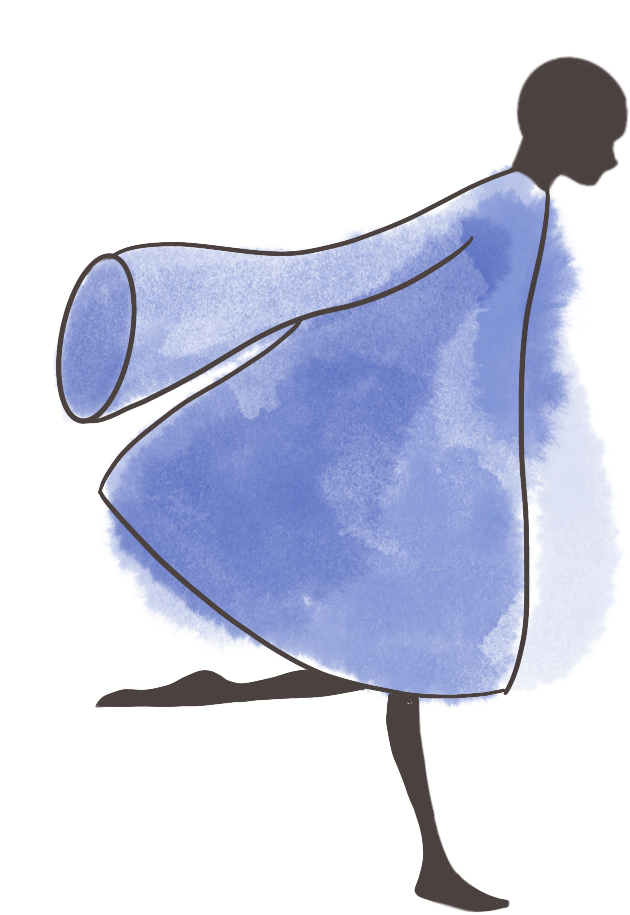
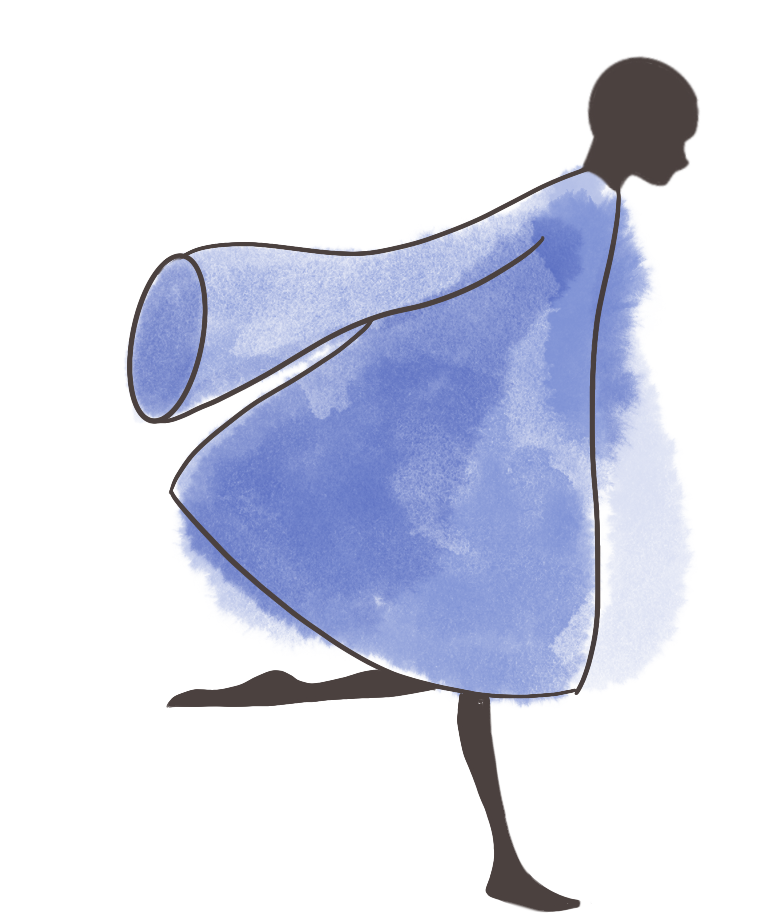
refonte sprite et fin

diff --git a/src/scenes/PreloaderScene.js b/src/scenes/PreloaderScene.js
@@ -1,0 +1,109 @@
+import Phaser from 'phaser'
+import GuernicaScene from "./GuernicaScene";
+
+// import importRessources from '../helpers/ressources'
+// import ressourcesJson from '../config/ressources'
+
+export default class PreloaderScene extends Phaser.Scene{
+
+    init(data){
+        this.data = data;
+    }
+    constructor() {
+        super({key: 'preloader'});
+    }
+
+    preload () {
+        this.screenCenterX = this.game.canvas.width / 2
+        this.screenCenterY = this.game.canvas.height / 2
+
+        // this.logo = this.add.sprite(this.screenCenterX, this.screenCenterY, "logo_animated");
+        //
+        // this.anims.create({
+        //     key: 'fly',
+        //     frames: this.anims.generateFrameNumbers('logo_animated', { start: 0, end: 3 }),
+        //     frameRate: 10,
+        //     repeat: -1
+        // });
+        //
+        // this.logo.anims.play('fly', true)
+
+        this.progressBar = this.add.graphics()
+        this.progressBox = this.add.graphics()
+        this.progressBox.fillStyle(0x000000, 0.8)
+        this.progressBox.fillRect(this.screenCenterX - 160, this.screenCenterY + 100, 304, 34)
+
+        this.percentText = this.make.text({
+            x: this.screenCenterX,
+            y: this.screenCenterY + 120,
+            text: '0%',
+            style: {
+                font: '18px monospace',
+                fill: '#ffffff'
+            }
+        }).setOrigin(.5,.5)
+
+        this.assetText = this.make.text({
+            x: this.screenCenterX,
+            y: this.screenCenterY + 70,
+            text: '',
+            style: {
+                font: '18px monospace',
+                fill: '#000000'
+            }
+        }).setOrigin(0.5, 0.5);
+
+        this.load.on('progress', (value) => {
+            this.percentText.setText(parseInt(value * 100) + '%')
+            this.progressBar.clear()
+            this.progressBar.fillStyle(0xffffff, 1)
+            this.progressBar.fillRect(this.screenCenterX - 158, this.screenCenterY + 102, 300 * value, 30)
+        })
+
+        this.load.on('fileprogress', (file) => {
+            console.log('Loading asset: ' + file.key)
+            this.assetText.setText('Loading asset: ' + file.key)
+        })
+
+        this.load.on('complete', () => {
+            this.progressBar.destroy()
+            this.progressBox.destroy()
+            this.percentText.destroy()
+            this.assetText.destroy()
+            this.complete(this.data.name)
+        });
+
+        //Charge Scene and ressource
+        switch (this.data.name) {
+            case "guernica":
+                this.scene.add("guernica", GuernicaScene, false);
+                this.load.image('guernicabg', 'assets/images/Levels/GUERNICA/guernica.PNG');
+                this.load.image('guernicabg2', 'assets/images/Levels/GUERNICA/guernica2.PNG');
+
+                this.load.image('guernica1', 'assets/images/Levels/GUERNICA/l enfant.PNG');
+                this.load.image('guernica2', 'assets/images/Levels/GUERNICA/la colombe.PNG');
+                this.load.image('guernica3', 'assets/images/Levels/GUERNICA/la fleur.PNG');
+                this.load.image('guernica4', 'assets/images/Levels/GUERNICA/la jambe boiteuse.PNG');
+                this.load.image('guernica5', 'assets/images/Levels/GUERNICA/la lampe.PNG');
+                this.load.image('guernica6', 'assets/images/Levels/GUERNICA/le cheval.PNG');
+                this.load.image('guernica7', 'assets/images/Levels/GUERNICA/le cri.PNG');
+                this.load.image('guernica8', 'assets/images/Levels/GUERNICA/le fantome.PNG');
+                this.load.image('guernica9', 'assets/images/Levels/GUERNICA/le poignard.PNG');
+                this.load.image('guernica10', 'assets/images/Levels/GUERNICA/le taureau.PNG');
+
+                this.load.image('mask', 'assets/images/Levels/GUERNICA/mask.png');
+
+                this.load.spritesheet("player", "assets/images/Character/Statique/spritesheet.png", {"frameWidth": 445, "frameHeight": 915});
+                this.load.spritesheet("player-walk", "assets/images/Character/Avancer/spritesheet.png", {"frameWidth": 630, "frameHeight": 915});
+                this.load.spritesheet("player-jump", "assets/images/Character/Sauter/spritesheet.png", {"frameWidth": 618, "frameHeight": 915});
+                this.load.spritesheet("player-fall", "assets/images/Character/Tomber/spritesheet.png", {"frameWidth": 773, "frameHeight": 915});
+                break;
+            default:
+        }
+
+    }
+
+    complete(nameScene){
+        this.scene.start(nameScene)
+    }
+}

diff --git a/src/scenes/GuernicaScene.js b/src/scenes/GuernicaScene.js
@@ -5,6 +5,7 @@ import Player from "../Class/Player";
 export default class GuernicaScene extends Phaser.Scene {
 
     score = 0;
+    wingame = 0;
 
     constructor() {
         super({key: 'guernica'});
@@ -27,9 +28,9 @@ export default class GuernicaScene extends Phaser.Scene {
 
         this.load.image('mask', 'assets/images/Levels/GUERNICA/mask.png');
 
-        this.load.spritesheet("player", "assets/images/Character/Statique/spritesheet.png", {"frameWidth": 445, "frameHeight": 915});
-        this.load.spritesheet("player-walk", "assets/images/Character/Avancer/spritesheet.png", {"frameWidth": 630, "frameHeight": 915});
-        this.load.spritesheet("player-jump", "assets/images/Character/Sauter/spritesheet.png", {"frameWidth": 618, "frameHeight": 915});
+        this.load.spritesheet("player", "assets/images/Character/Statique/spritesheet.png", {"frameWidth": 773, "frameHeight": 915});
+        this.load.spritesheet("player-walk", "assets/images/Character/Avancer/spritesheet.png", {"frameWidth": 773, "frameHeight": 915});
+        this.load.spritesheet("player-jump", "assets/images/Character/Sauter/spritesheet.png", {"frameWidth": 773, "frameHeight": 915});
         this.load.spritesheet("player-fall", "assets/images/Character/Tomber/spritesheet.png", {"frameWidth": 773, "frameHeight": 915});
     }
 
@@ -76,7 +77,7 @@ export default class GuernicaScene extends Phaser.Scene {
 
         this.guernica.mask = new Phaser.Display.Masks.BitmapMask(this, this.spotlight);
 
-        this.player = new Player(this, 0, 3200, {key: 'player'});
+        this.player = new Player(this, 0, 1200, {key: 'player'});
         this.cameras.main.startFollow(this.player);
         let rectarr = [];
         rectarr.push(this.add.rectangle(75, 765, 350, 141).setOrigin(0).setName("0"));
@@ -95,6 +96,9 @@ export default class GuernicaScene extends Phaser.Scene {
             this.rectsigne.add(rectarr[i])
         }
 
+        this.createPlatforms();
+
+        this.player.body.checkCollision.up = false;
     }
 
     update(){
@@ -114,13 +118,38 @@ export default class GuernicaScene extends Phaser.Scene {
     }
 
     win(){
-        if(this.score === 2){
+        if(this.score === 1 && this.wingame !== 1){
             const ratio = (1200 / this.game.canvas.width).toFixed(1);
-            this.guernica.clearMask()
-            this.guernica2.destroy()
-            this.cameras.main.setZoom(this.cameras.main.zoom > ratio ? this.cameras.main.zoom - 0.01  : ratio)
+            const pos = (this.game.canvas.height - (1200 * ratio)) / 2;
+            if(this.cameras.main.y >= pos && this.cameras.main.zoom <= ratio){
+                if(this.spotlight.scale < 30){
+                    this.spotlight.setScale(this.spotlight.scale + 0.2);
+                }else{
+                    this.guernica.clearMask();
+                    this.guernica2.destroy();
+                    this.wingame = 1;
+                }
+            }else{
+                this.cameras.main.setPosition(0, this.cameras.main.y < pos ? this.cameras.main.y + .8 : pos)
+                this.cameras.main.setZoom(this.cameras.main.zoom > ratio ? this.cameras.main.zoom - 0.005  : ratio)
+            }
         }
     }
 
+    createPlatforms(){
+        this.lines = this.physics.add.staticGroup();
+        let rect = this.add.rectangle(150, 1150, 350, 1).setOrigin(0)
+        this.lines.add(rect)
+
+        this.physics.add.collider(this.lines, this.player, null, this.collider, this)
+
+
+    }
+
+    collider(p){
+        if(p.body.onFloor()) {
+            return false;
+        }
+    }
 }
 

diff --git a/src/scenes/TitleScene.js b/src/scenes/TitleScene.js
@@ -1,6 +1,6 @@
 import Phaser from 'phaser'
 import {fullscreen} from "../helpers/fullscreen";
-import GuernicaScene from "./GuernicaScene";
+import PreloaderScene from "./PreloaderScene";
 
 export default class TitleScene extends Phaser.Scene {
 
@@ -52,7 +52,7 @@ export default class TitleScene extends Phaser.Scene {
     }
 
     preload(){
-        this.scene.add("guernica", GuernicaScene, false);
+        this.scene.add("preloader", PreloaderScene, false);
 
         this.load.image('totemfond', 'assets/images/Title/Totems de fond.PNG');
 
@@ -574,7 +574,7 @@ export default class TitleScene extends Phaser.Scene {
         if(this.changeScene === 1){
             let scene = ["","","","","","","","guernica","","",];
             this.game.sound.stopAll();
-            this.scene.switch(scene[index])
+            this.scene.start("preloader", {name: scene[index]});
             this.scene.stop(this)
         }
     }

diff --git a/src/Class/Player.js b/src/Class/Player.js
@@ -20,6 +20,8 @@ export default class Player extends Phaser.GameObjects.Sprite{
         this.scene.add.existing(this);
 
         this.body.setCollideWorldBounds(true);
+
+        this.body.setSize(200, 915, true);
         this.setScale(.15)
 
         this.playeridle = this.scene.anims.create({
@@ -84,8 +86,6 @@ export default class Player extends Phaser.GameObjects.Sprite{
             up: UP,
             down: DOWN,
         });
-
-
     }
 
     preUpdate (time, delta) {
@@ -169,5 +169,6 @@ export default class Player extends Phaser.GameObjects.Sprite{
                 }
             }
         });
+
     }
 }

diff --git a/src/config/game.js b/src/config/game.js
@@ -1,5 +1,5 @@
 import Phaser from 'phaser'
-import TitleScene from "../scenes/TitleScene";
+import GuernicaScene from "../scenes/GuernicaScene";
 
 const config = {
     type: Phaser.WEBGL,
@@ -25,7 +25,7 @@ const config = {
             debug: true
         }
     },
-    scene: [TitleScene]
+    scene: [GuernicaScene]
 };
 
 export default config
